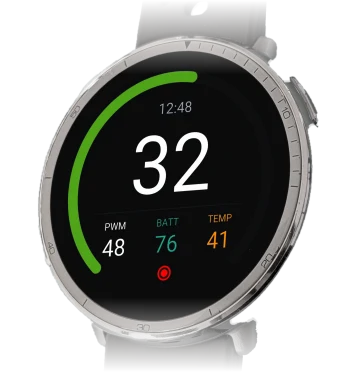
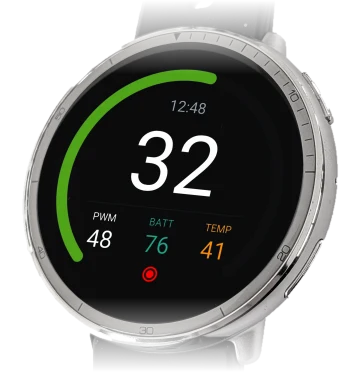
Hero: rebuild both watches from white-background photos
Cleaner bezel and steel on the Active 2 (no backdrop tint), Garmin shadow
removed, strap holes see-through, callout leads re-aimed.

Claude-Session: https://claude.ai/code/session_0113Rbw9K8vn8adzvCaMpYEK

diff --git a/_pages/home.md b/_pages/home.md
@@ -27,11 +27,11 @@ classes: wheeldash-home
     <img src="/assets/images/wheeldash-hero-watches.webp" width="1390" height="1280" alt="Amazfit Active 2 and Garmin Fenix 7 Pro running WheelDash: a custom layout on the Amazfit and the fixed dashboard on the Garmin">
     <ul class="wd-callouts" aria-label="Dashboard on each platform">
       <li class="wd-callout wd-callout--text is-green is-left" style="--y:58.6%;--tl:-21%;--tw:24%">
-        <span class="wd-callout__lead" style="--l:3%;--w:8.6%" aria-hidden="true"></span>
+        <span class="wd-callout__lead" style="--l:3%;--w:6.8%" aria-hidden="true"></span>
         <div class="wd-callout__tag"><span>Amazfit</span><strong>Custom layouts</strong></div>
       </li>
       <li class="wd-callout wd-callout--text is-white" style="--y:35.2%;--tl:80%;--tw:24%">
-        <span class="wd-callout__lead" style="--l:75.6%;--w:4.4%" aria-hidden="true"></span>
+        <span class="wd-callout__lead" style="--l:76.1%;--w:3.9%" aria-hidden="true"></span>
         <div class="wd-callout__tag"><span>Garmin</span><strong>Fixed dashboard</strong></div>
       </li>
     </ul>
